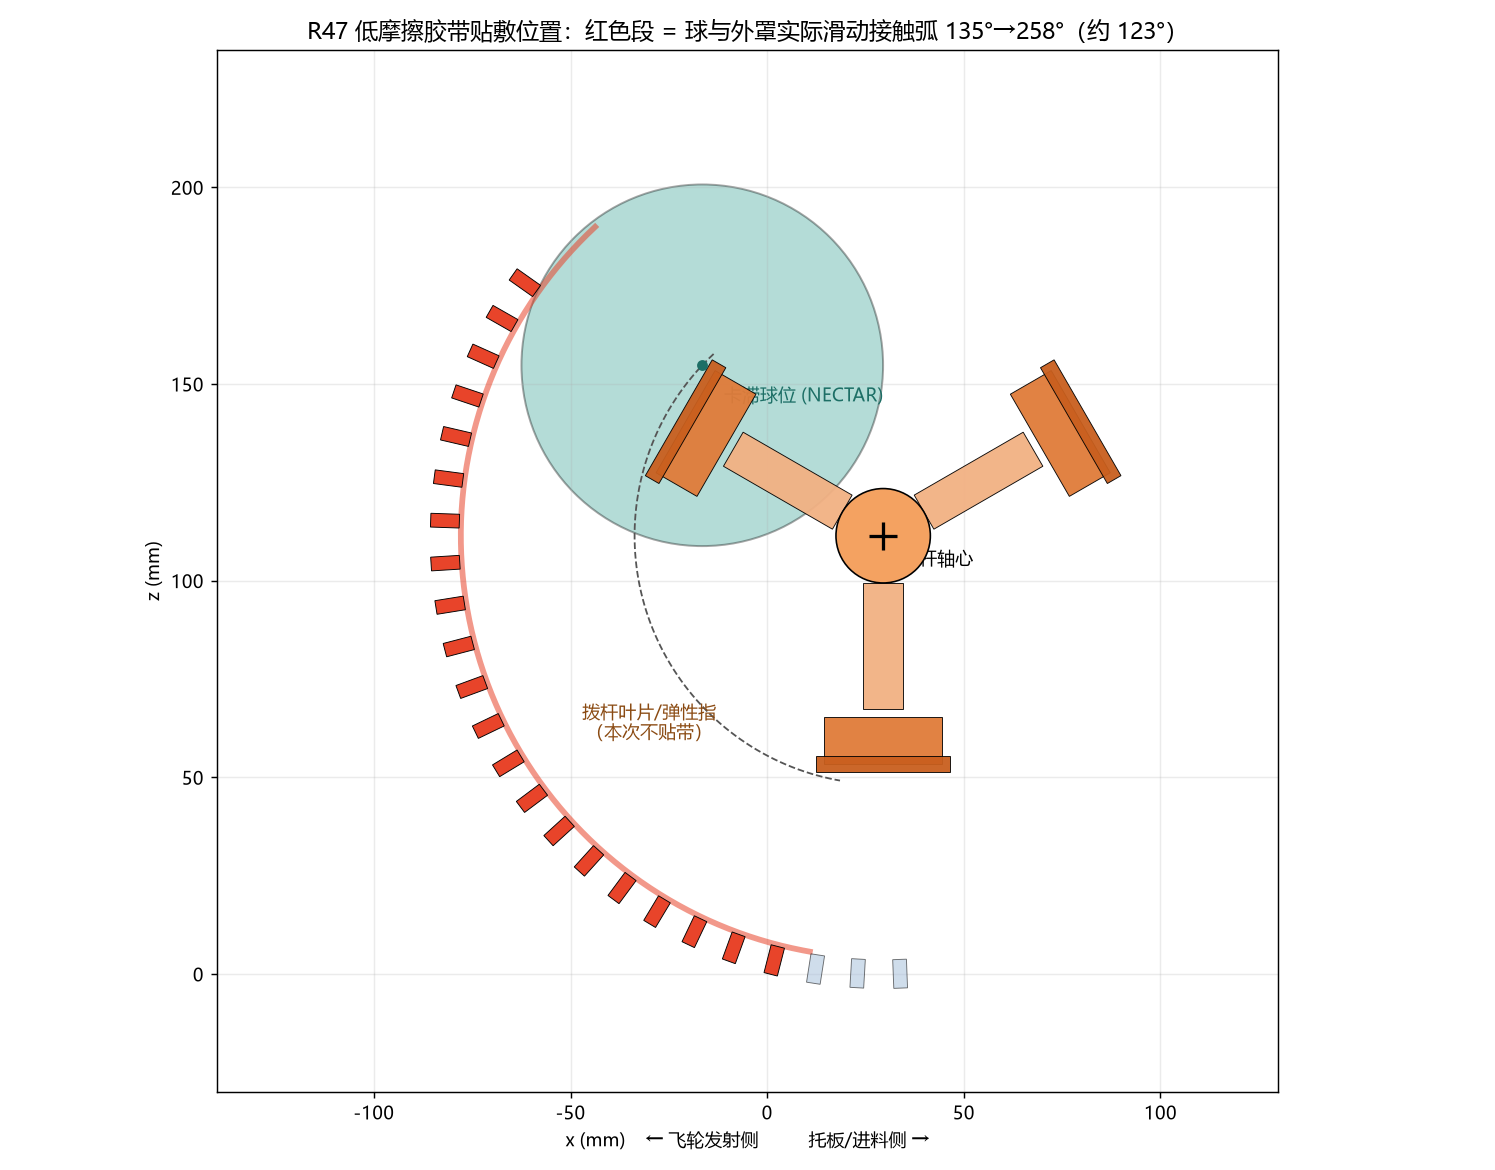
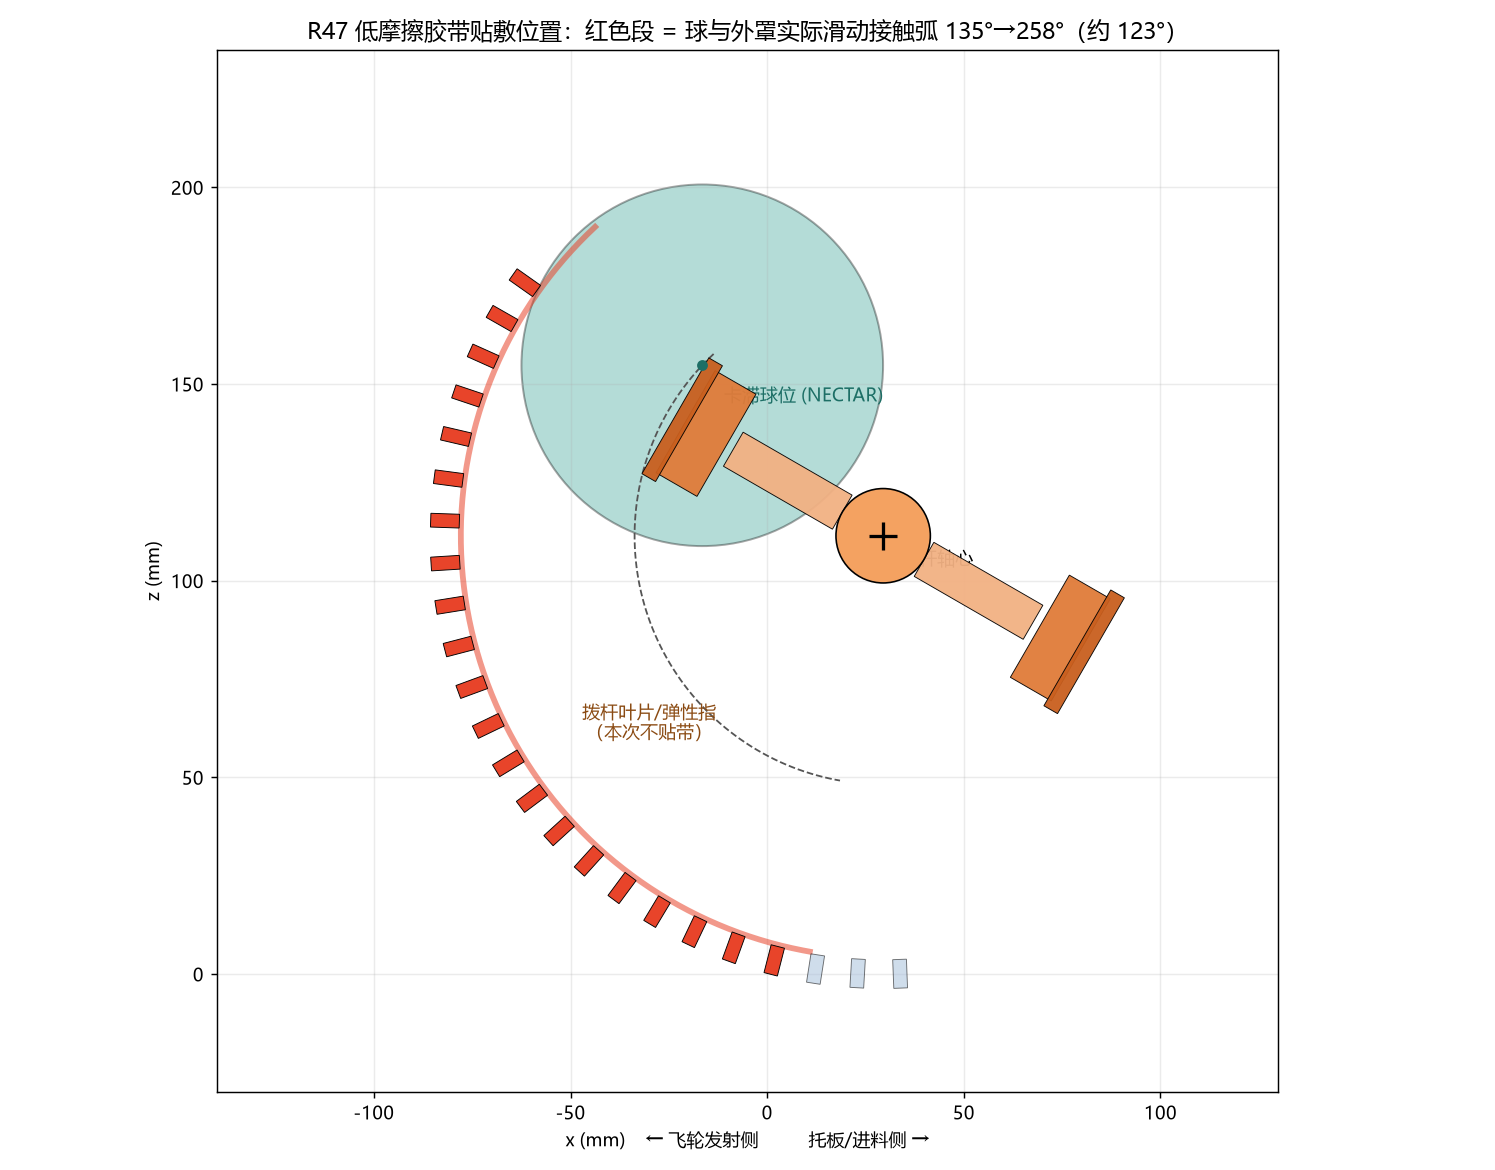
R47 修正：示意图拨杆由误画的 3 叉改回与模型一致的 2 叉（330/150）
- 仿真模型一直是两叉（r37_multiball.py:54 parts(phases=(330.0,150.0))，:202 调用未传参），
  全部仿真数据（含接触测绘 paddle_blade_1/2、paddle_flex_1/2）均基于两叉、有效；错的只是绘图脚本 _r47_fig.py:46 手写的 (30,150,270)。
- 已把绘图相位改为 330/150、弹性指半径 58->59 与模型对齐，重出 _r47_tape_section.png。
- 教训写入 V-0044 陷阱第 4 条：示意图的机构相位必须与模型同源，不得在绘图脚本里手写自由度。

Changed region(s): [[0.5231, 0.3077, 0.7692, 0.6769], [0.4308, 0.3077, 0.4923, 0.4]]

diff --git a/simulation/mujoco/_work/_r47_fig.py b/simulation/mujoco/_work/_r47_fig.py
@@ -42,12 +42,12 @@ ax.plot([CX + (R_IN - 0.6) * math.cos(q) for q in th],
 ax.plot([CX + 63.2 * math.cos(q) for q in th], [CZ + 63.2 * math.sin(q) for q in th],
         "--", color="#555", lw=1.0, zorder=2)
 
-# --- 拨杆：3 组 臂/叶片/弹性指，相位 30/150/270，半径 28/52/58 ---
-for ph in (30.0, 150.0, 270.0):
+# --- 拨杆：2 组 臂/叶片/弹性指，相位 330/150（= r37_multiball.parts() 默认值），半径 28/52/59 ---
+for ph in (330.0, 150.0):
     q = math.radians(ph)
     for rad, hr, ht, fc in ((28.0, 16.0, 5.0, "#f2b183"),
                             (52.0, 6.0, 15.0, "#e07b39"),
-                            (58.0, 2.0, 17.0, "#c95f1e")):
+                            (59.0, 2.0, 17.0, "#c95f1e")):
         x, z = CX + rad * math.cos(q), CZ + rad * math.sin(q)
         box(x, z, hr, ht, ph, fc, alpha=0.95, zo=5)
 ax.add_patch(Circle((CX, CZ), 12.0, facecolor="#f4a261", edgecolor="k", lw=0.9, zorder=6))

diff --git a/docs/decision_log.md b/docs/decision_log.md
@@ -815,5 +815,6 @@ Date/version:
 - 结果 e（SIMULATED，胶带厚度）: `--relief -0.20 / -0.50`（0.2 / 0.5 mm 占位）与 0.15/0.25/0.30/0.35 各组合均在 5.0–5.4 s ⇒ 无影响。
 - 结果 f（SIMULATED，接触测绘）: 见 DEC-0044 表 3 —— 外罩内弧 ≈47 %、叶片推球面 34 %、弹性指 10 %、托板 7 %。
 - 陷阱（KNOWN，写入历史）: ①闸板台架 `_r45_gate4.py` 头部 `GX=98` 是旧默认，实际由 `--gate-x 180` 覆盖 ⇒ **判读前回读日志第 3 行 `x=`**；②`--sweep` 参数名还在，但被硬编码的整圈同速覆盖，**不要用它做行程实验**（本轮已用逐位相同的日志证死）；③台架 `--relief` 为负值表示「贴带占位使通道变大」，与 `--flex-in` 等正值旋钮方向相反。
+- 陷阱（KNOWN，写入历史，本轮第 4 条）: **示意图脚本 `_work/_r47_fig.py` 曾把拨杆硬编码成 3 叉（相位 30/150/270）**，与实际模型不符 —— 仿真模型一直是**两叉**（`r37_multiball.py` 第 54 行 `def parts(phases=(330.0, 150.0))`，第 202 行调用未传参），所有仿真数据（含接触测绘的 `paddle_blade_1/2`、`paddle_flex_1/2`）均基于两叉、有效。已把绘图脚本改为 330/150 两叉并重出 `_r47_tape_section.png`。**教训：示意图的机构相位必须与模型同源，不得在绘图脚本里手写自由度。**
 - 未验证（TBD）: 未实机；μ=0.30 为 `ASSUMED`；胶带选型 / 带宽 / 端头 / 翘边未定；贴带尚未落进 CAD。
 - Date/version: 2026-10-12 / C06B-FEEDER-R47 / 脚本 `_work/_r47_geo.py`、`_work/_r47_run.py`、`_work/_r47_touch.py`、`_work/_r47_fig.py`
